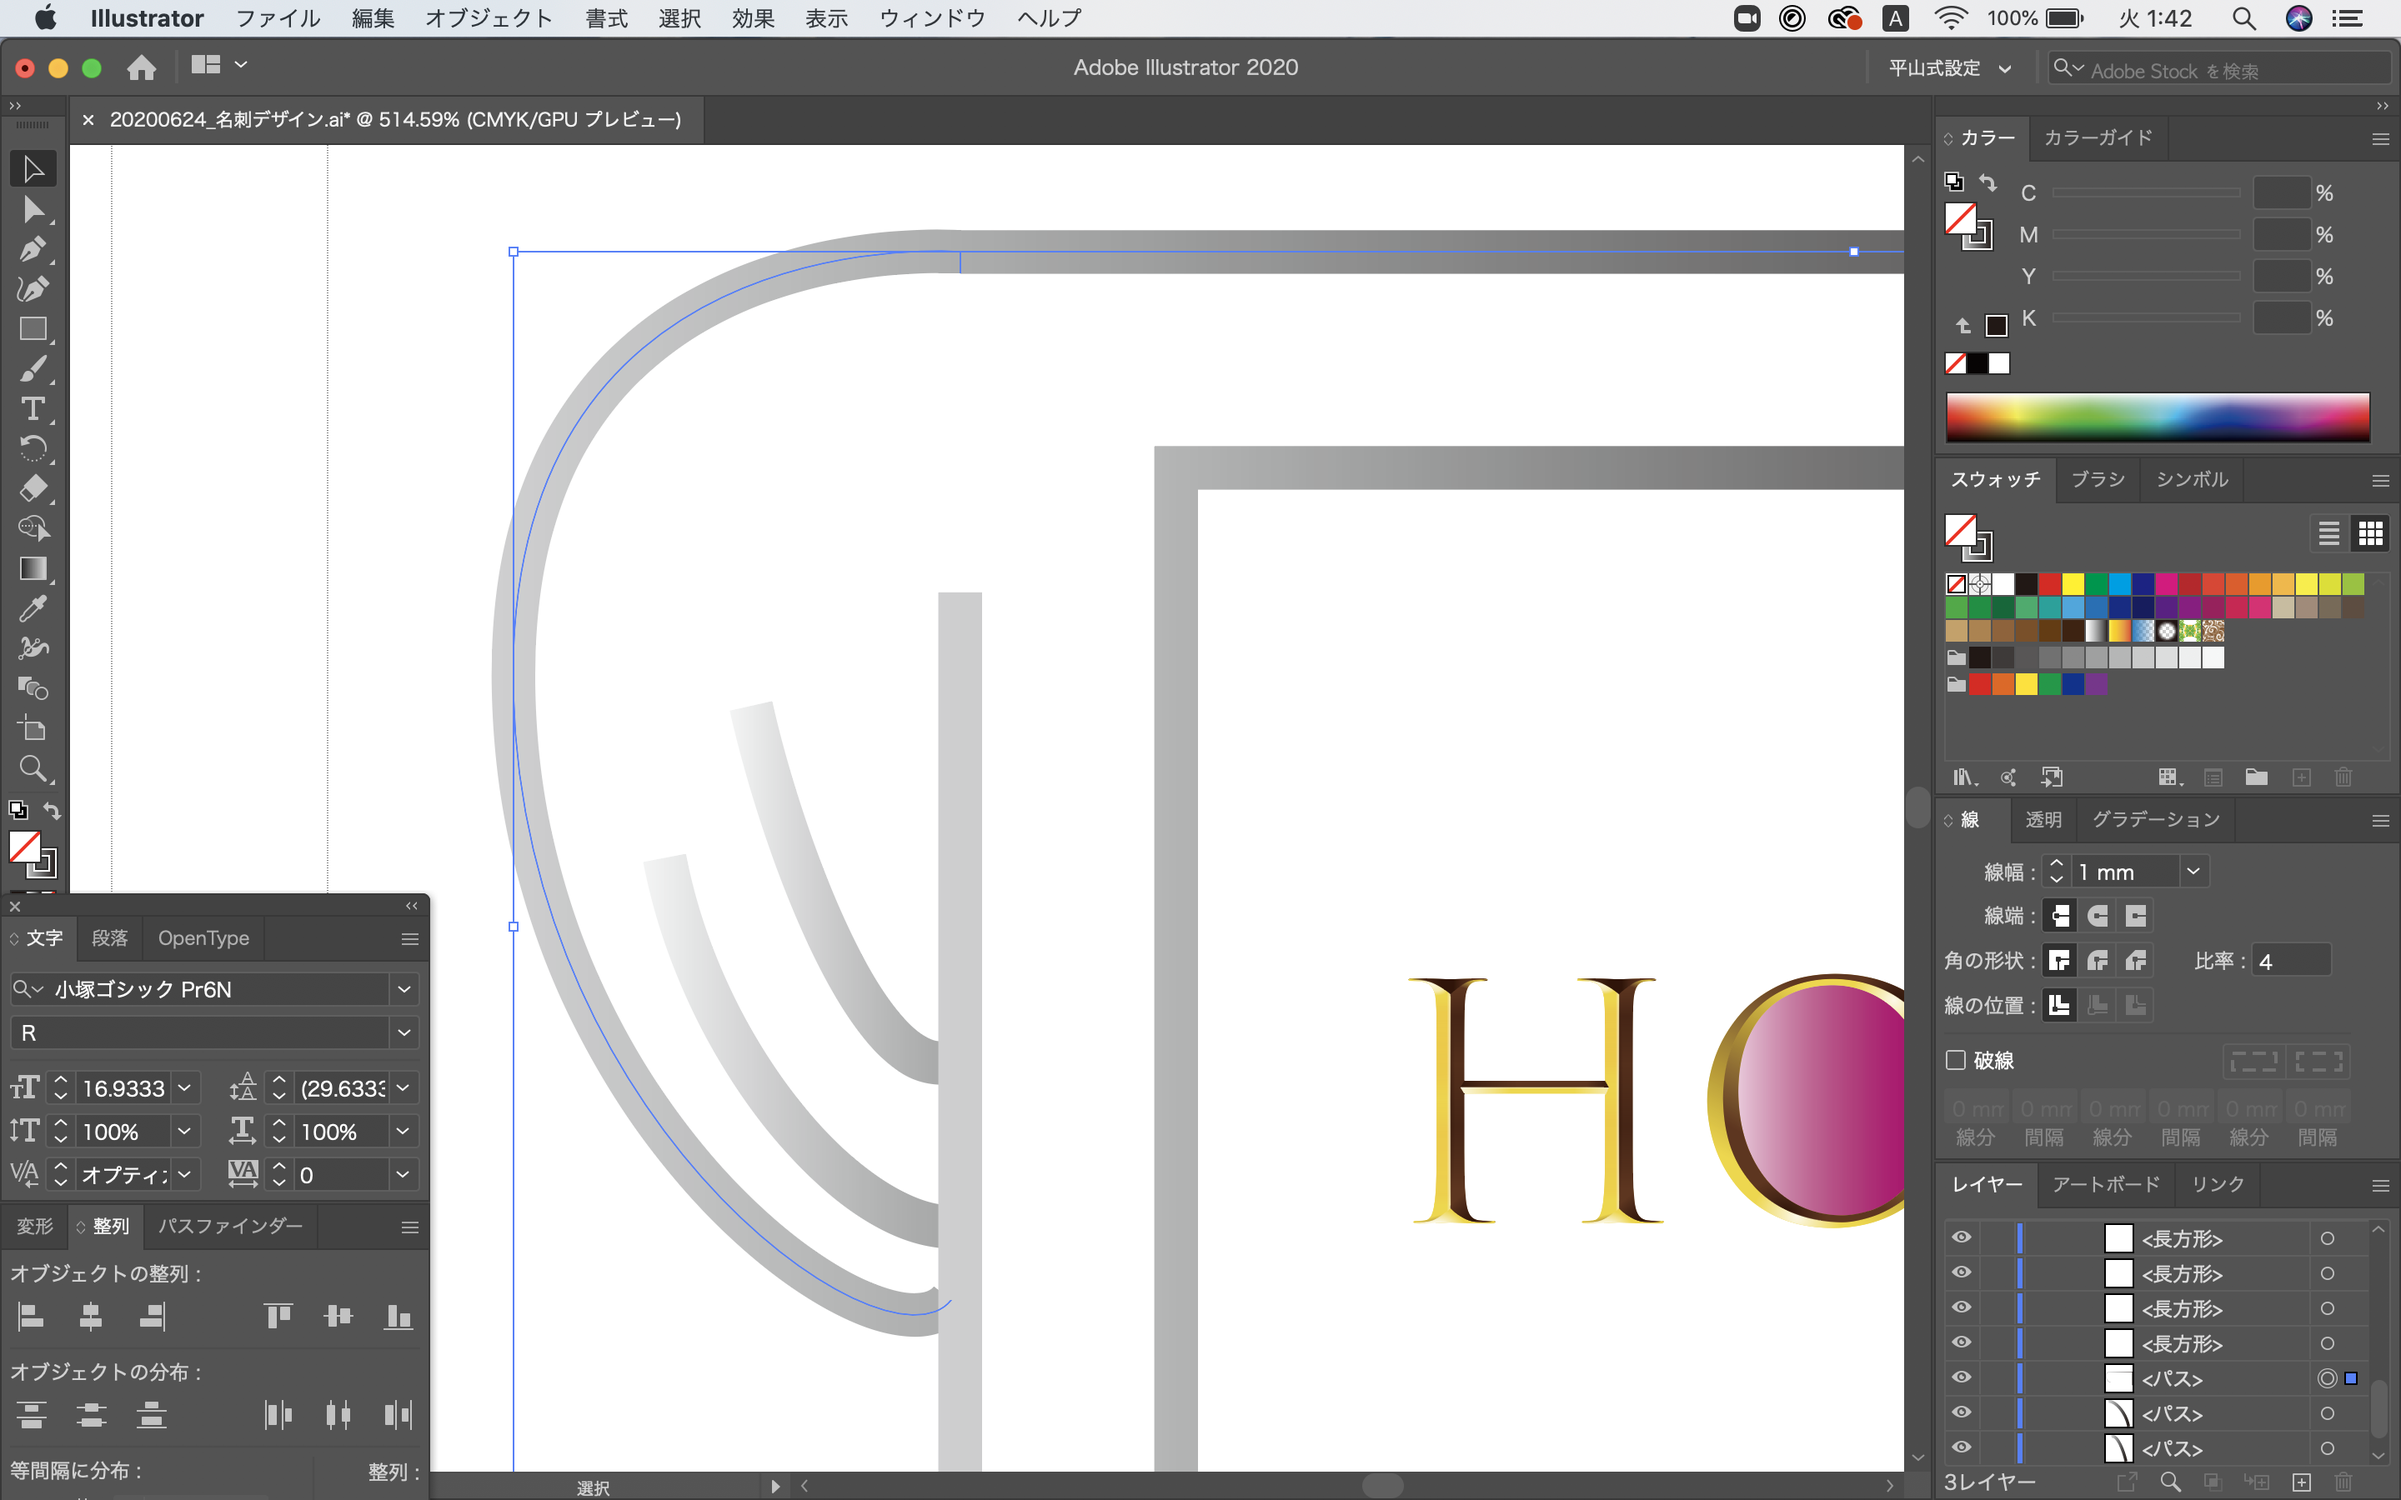
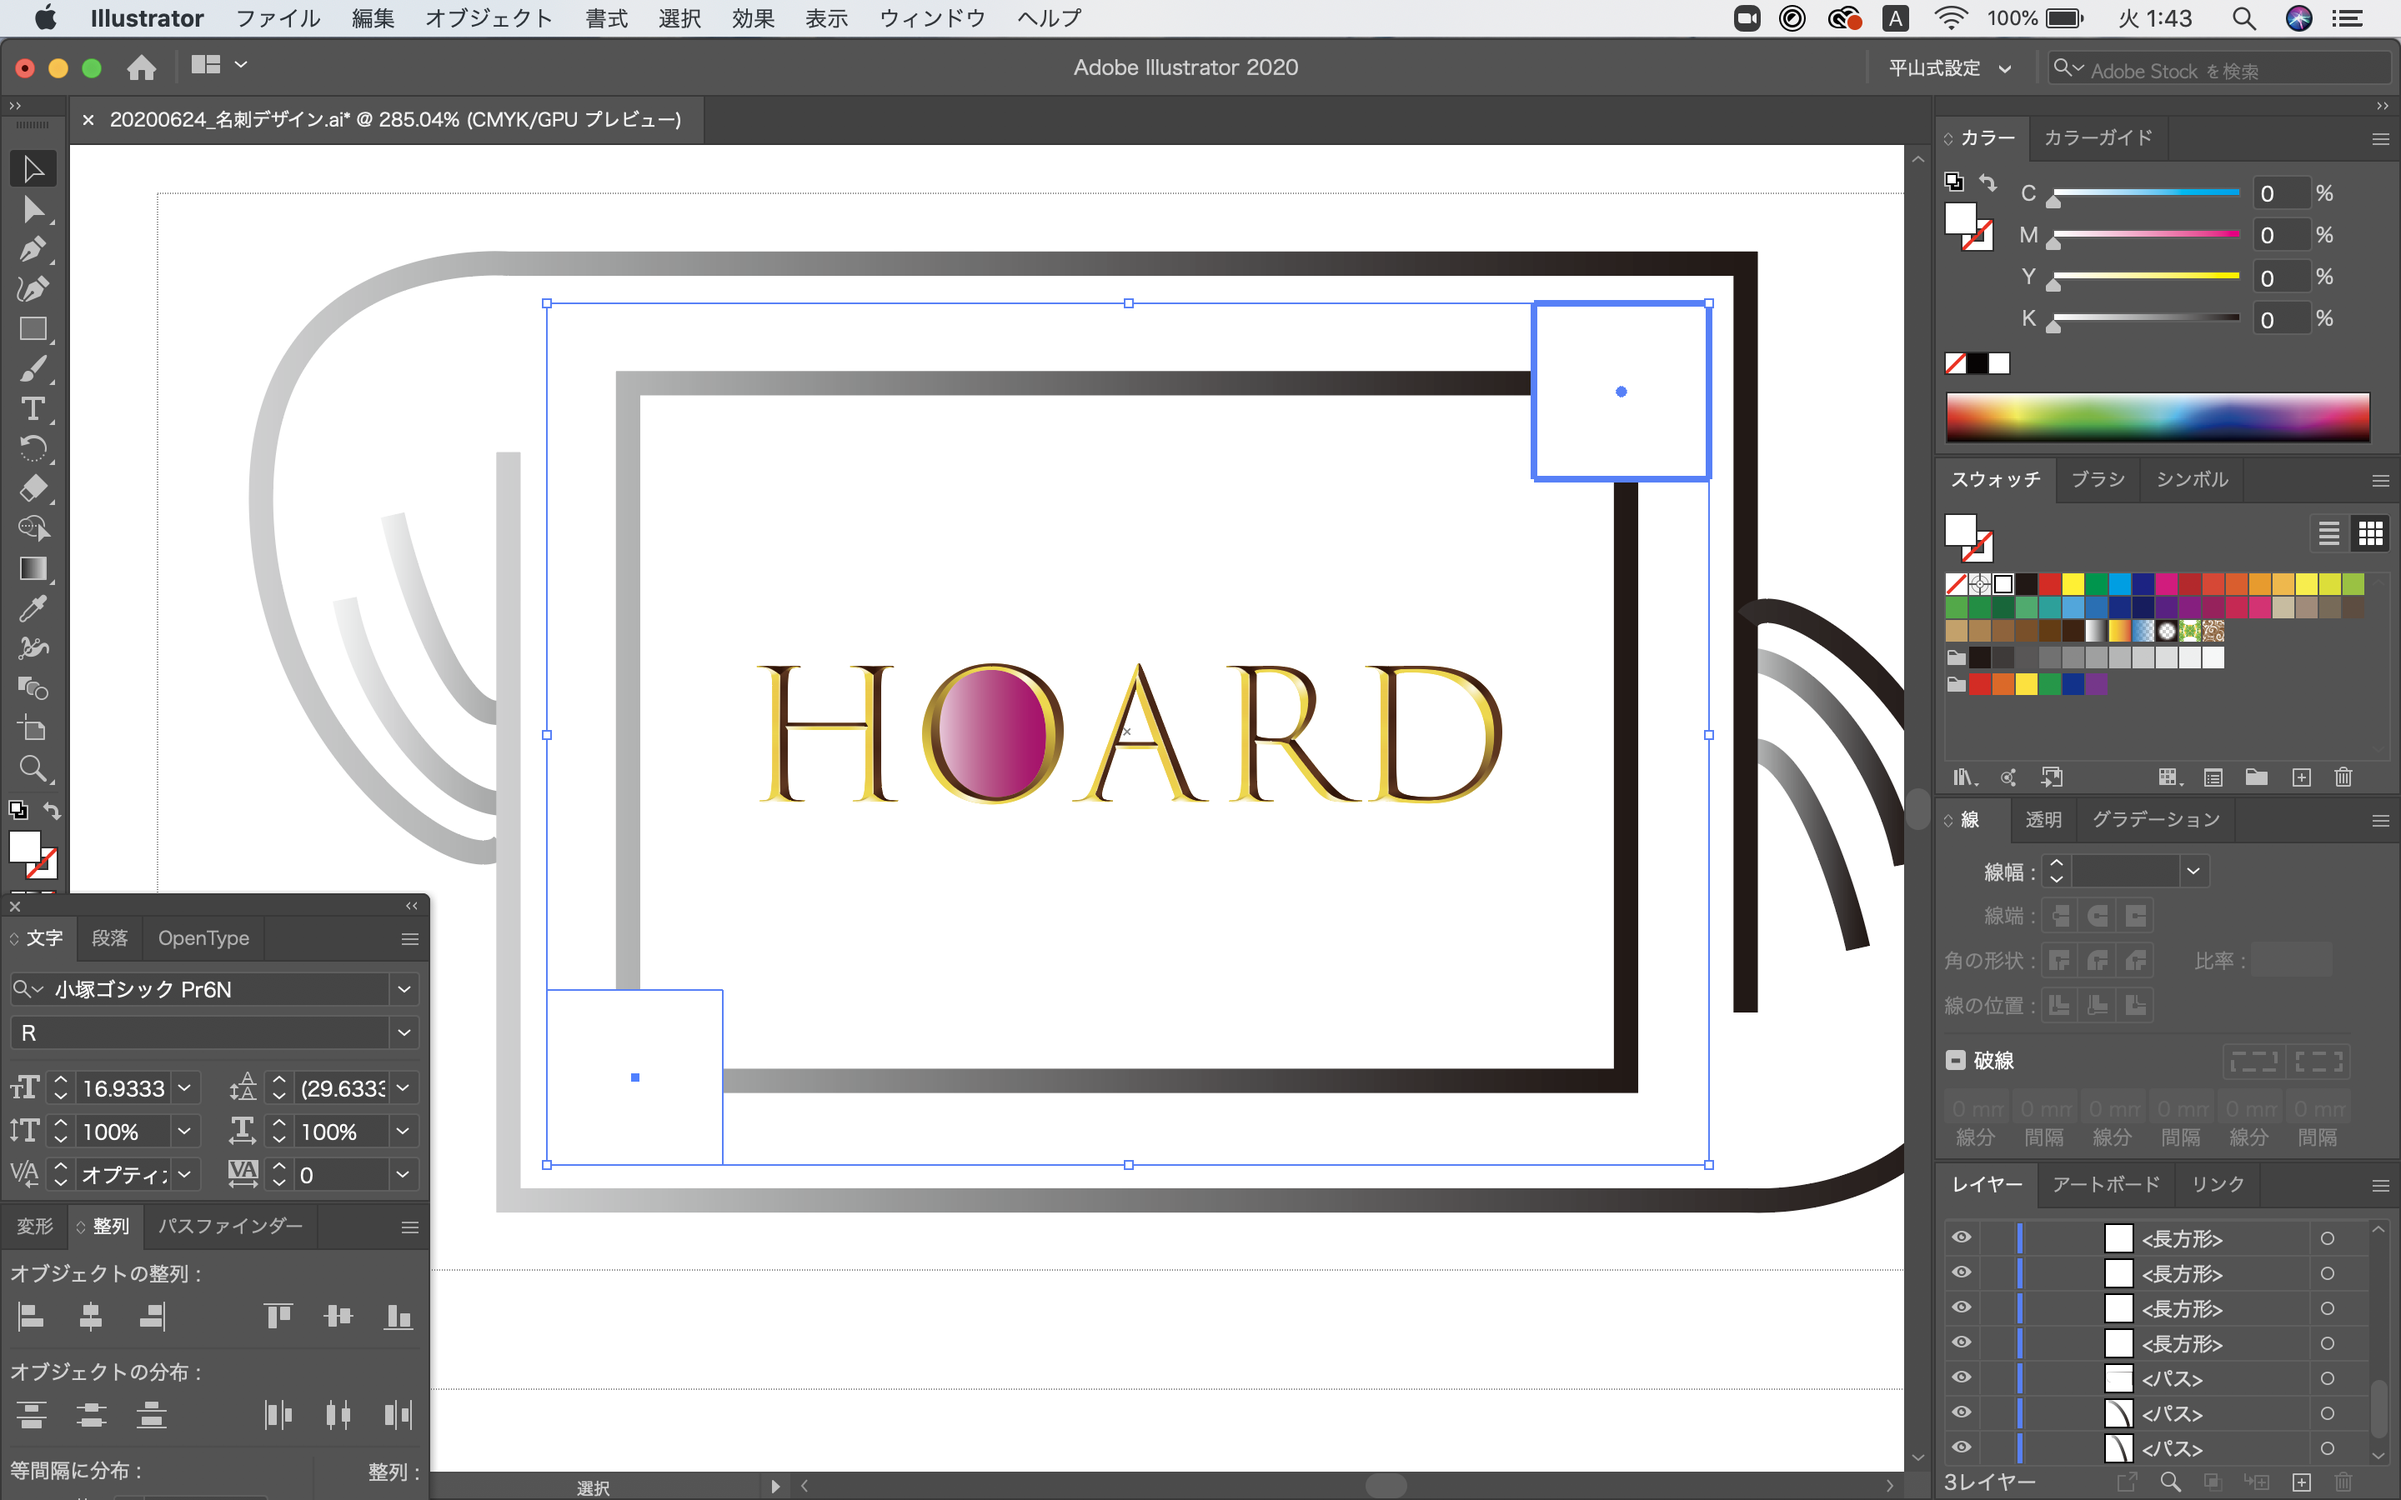
名刺作成編集

diff --git a/swnwb1.html b/swnwb1.html
@@ -31,13 +31,12 @@
            <p class="sub_pic"><img src="./assets/images/1.PNG" alt=""></p>
            <p class="sub_pic"><img src="./assets/images/2.PNG" alt=""></p>
           </div>
-            ここにどのようにして，課題を作成したのか？を記述してください．
-            <br>写真を入れたり，動画を埋め込んだりするととてもいい．
-          </p>
-          <div class="flex">
-            <p class="sub_pic"><img src="./assets/images/名刺作成.png" alt=""></p>
-           </div>
-           まず大きいサイズで、単純な形を組み合わせて鍵の形を作り、その後サイズを調整しました。
+            ランダムに英単語が出てくるサイトにて出てきた単語「hoard/秘蔵」からイメージして、金庫の会社の名刺を作ることに決定しました。
+            <br>黒の太枠は金庫を表しています。誠実で重厚な印象を与えるように黒を基調とし、グラデーションにしました。
+            <br>枠の中の「HOARD」は宝石を表しています。シンプルなデザインの中で宝石のように輝き目立つように意識しました。
+        </p>
+            <img src="./assets/images/名刺作成.png" alt="" width="700">
+            <br>まず大きいサイズで、単純な形を組み合わせて鍵の形を作り、その後サイズを調整しました。
            <div class="flex">
             <p class="sub_pic"><img src="./assets/images/名刺作成2.png" alt=""></p>
             <p class="sub_pic"><img src="./assets/images/名刺作成3.png" alt=""></p>

diff --git a/cv.html b/cv.html
@@ -34,7 +34,7 @@
           }
         </style>
         <div class="border">
-          <img src="./assets/images/2.PNG" alt="" width="400" >
+          <img src="./assets/images/1.PNG" alt="" width="400" >
       　</div>
         <div class="mb_l">
           <p>私は滝井智恵です．</p>
